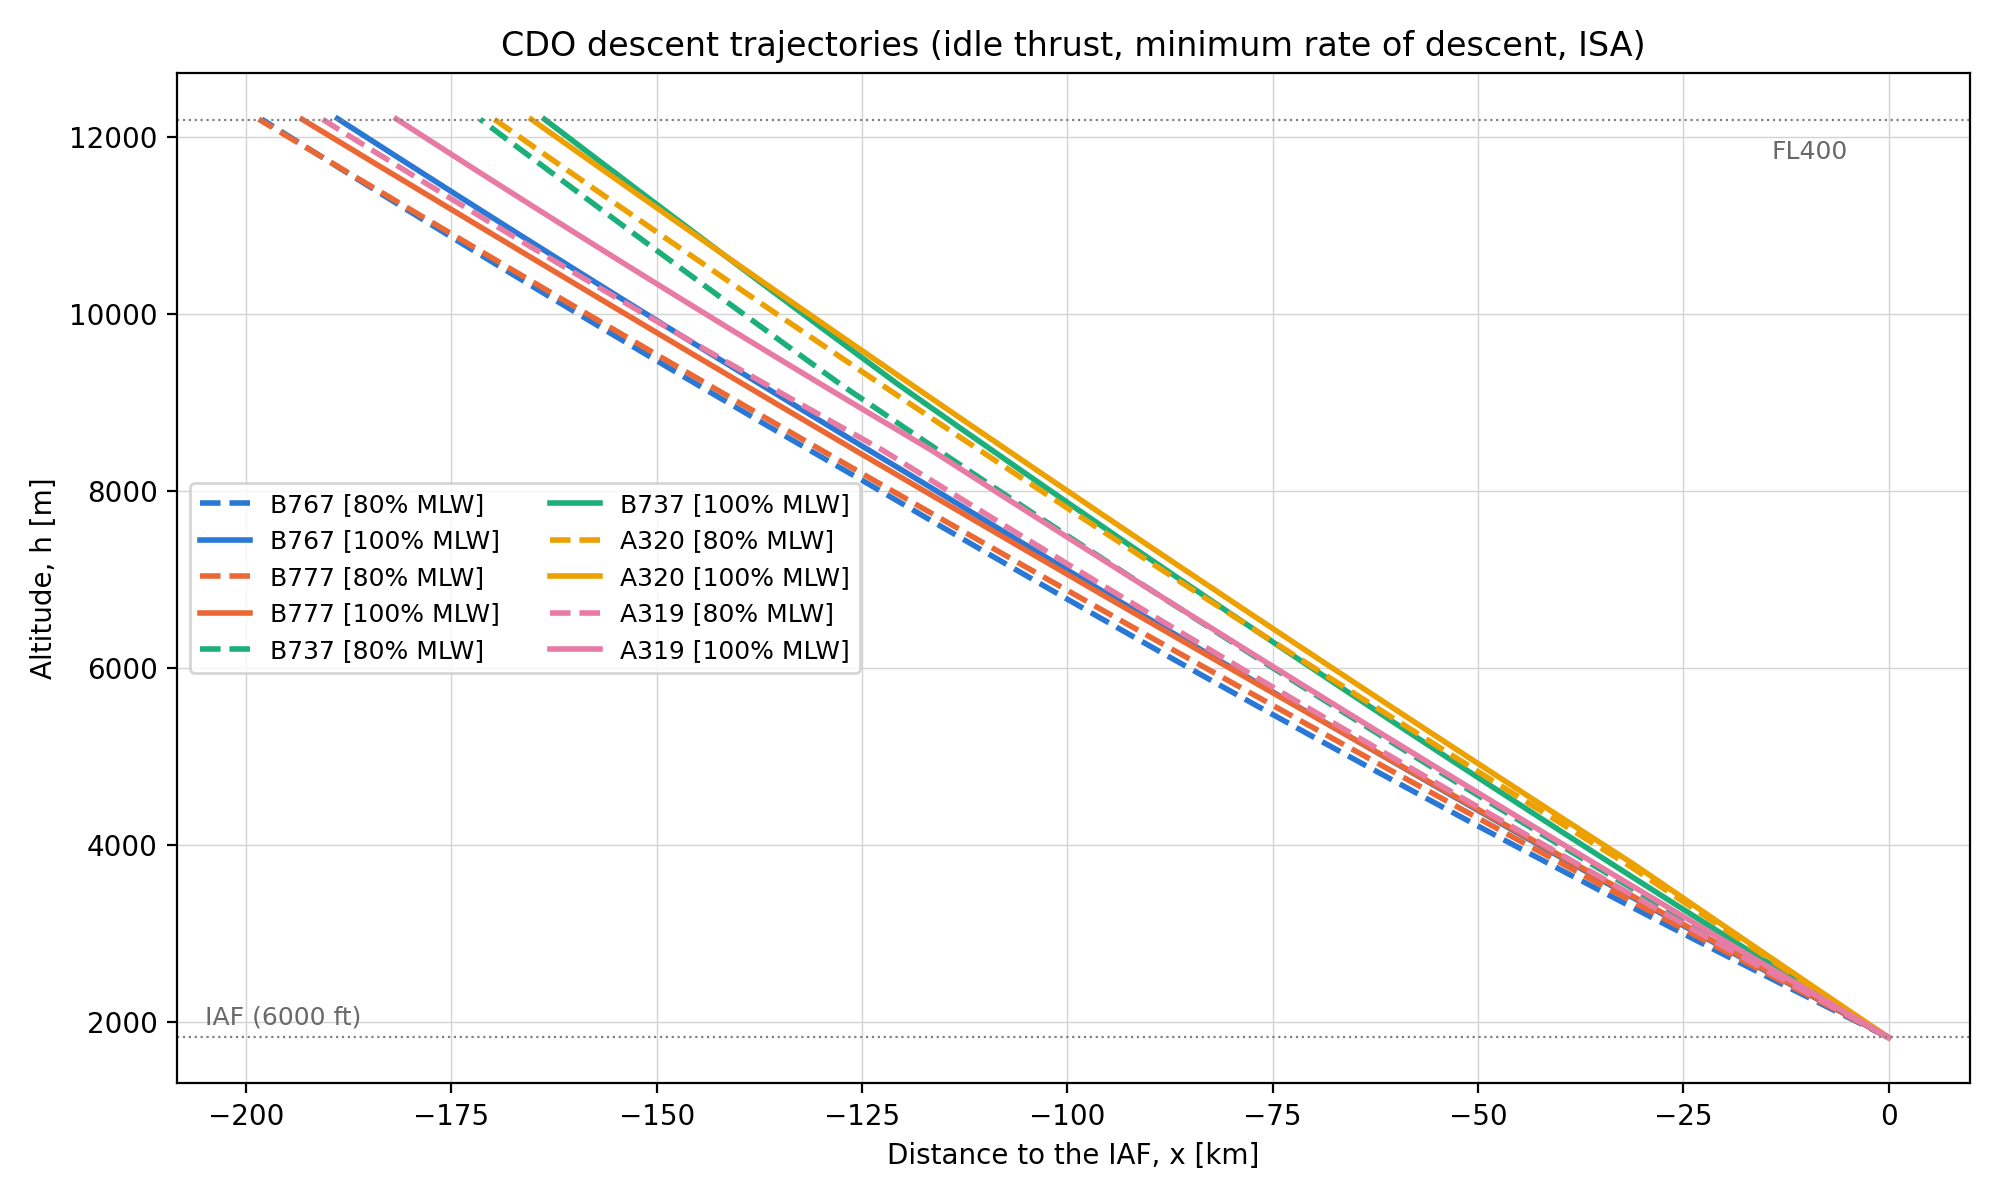
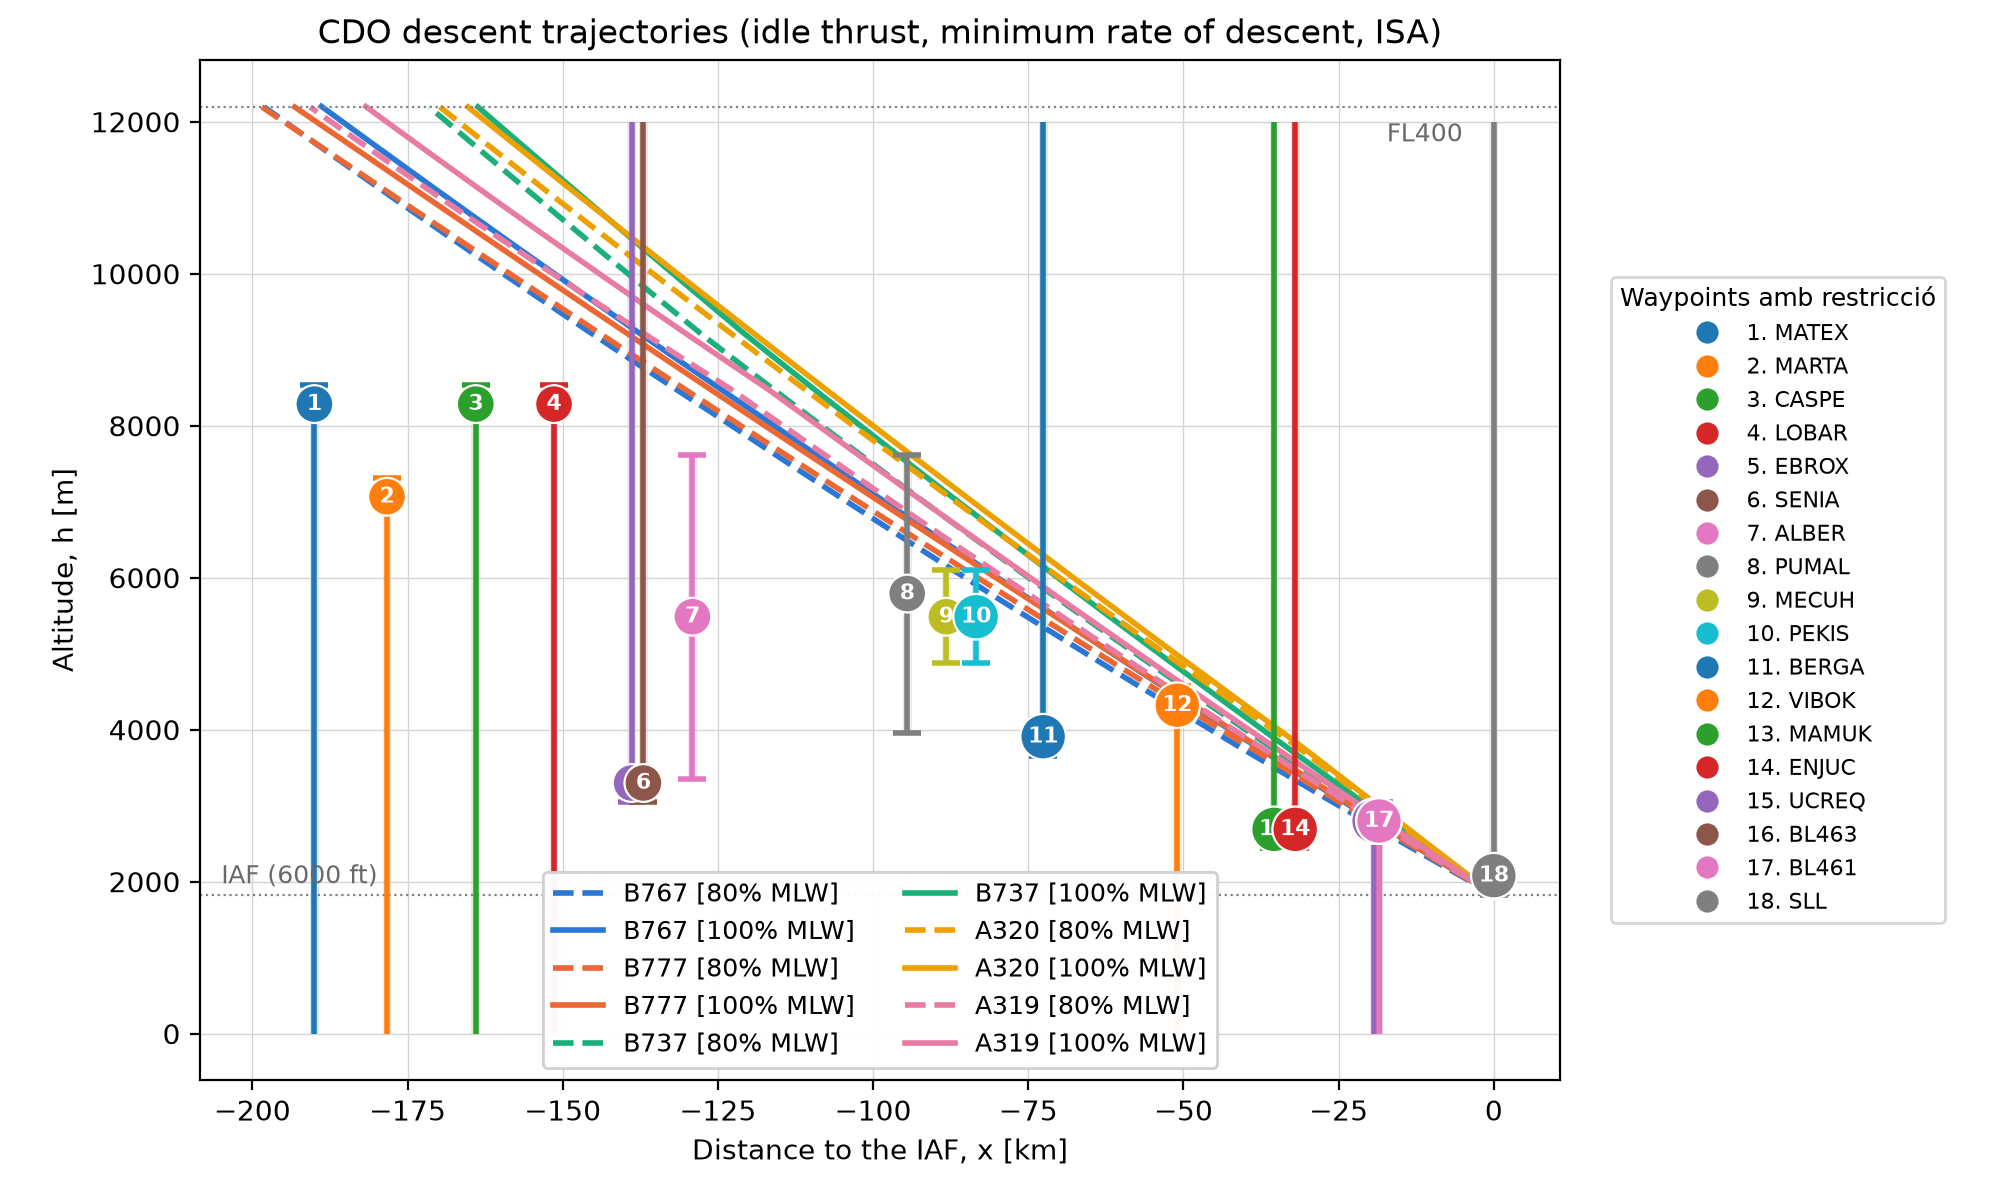
Plot Restrictions

diff --git a/restrictions.py b/restrictions.py
@@ -12,6 +12,7 @@ Data from the ENAIRE STAR charts (AIP, AD 2-LEBL STAR 3).
 Altitudes are given in ft on the chart and converted to m here.
 """
 
+import matplotlib as plt
 from aircraft import AIRCRAFT, FT_TO_M
 from sequencing import STARS, time_to_iaf
 
@@ -191,3 +192,161 @@ def check_all_aircraft(trajectories):
                     text = text + "  (cruise at FL400 for " + str(round(star_km - cdo_km, 1)) + " km)"
 
                 print("   ", name, pct, "% MLW:", text)
+
+
+
+
+
+def plot_all_restrictions(ax, restrictions_dict):
+    waypoints = {}
+
+    # Agrupar els waypoints i eliminar duplicats
+    for star, restrictions in restrictions_dict.items():
+        for r in restrictions:
+            if r.alt_min is None and r.alt_max is None:
+                continue
+
+            if r.waypoint not in waypoints:
+                waypoints[r.waypoint] = r
+
+    # Altitud màxima del gràfic, en metres
+    max_alt = 12000
+
+    # Ordenar els waypoints per distància
+    items = sorted(
+        waypoints.items(),
+        key=lambda item: item[1].distance_km,
+        reverse=True
+    )
+
+    colors = [
+        "tab:blue",
+        "tab:orange",
+        "tab:green",
+        "tab:red",
+        "tab:purple",
+        "tab:brown",
+        "tab:pink",
+        "tab:gray",
+        "tab:olive",
+        "tab:cyan"
+    ]
+
+    # Conservar la llegenda original dels avions
+    old_legend = ax.get_legend()
+
+    if old_legend is not None:
+        ax.add_artist(old_legend)
+
+    # Dibuixar les restriccions
+    for i, (waypoint, r) in enumerate(items):
+        x = -r.distance_km
+        color = colors[i % len(colors)]
+
+        # Límits d'altitud
+        alt_min = r.alt_min if r.alt_min is not None else 0
+        alt_max = r.alt_max if r.alt_max is not None else max_alt
+
+        # Franja vertical de color
+        ax.fill_between(
+            [x - 0.7, x + 0.7],
+            alt_min,
+            alt_max,
+            color=color,
+            alpha=0.16,
+            linewidth=0,
+            zorder=1
+        )
+
+        # Línia vertical de restricció
+        ax.vlines(
+            x,
+            alt_min,
+            alt_max,
+            color=color,
+            linewidth=2,
+            zorder=2
+        )
+
+        # Marca del límit mínim
+        if r.alt_min is not None:
+            ax.plot(
+                x,
+                alt_min,
+                "_",
+                color=color,
+                markersize=10,
+                markeredgewidth=2,
+                zorder=3
+            )
+
+        # Marca del límit màxim
+        if r.alt_max is not None:
+            ax.plot(
+                x,
+                alt_max,
+                "_",
+                color=color,
+                markersize=10,
+                markeredgewidth=2,
+                zorder=3
+            )
+
+        # Posició del número dins de la franja
+        if r.alt_min is not None and r.alt_max is not None:
+            y_marker = (alt_min + alt_max) / 2
+        elif r.alt_min is not None:
+            y_marker = min(alt_min + 250, max_alt)
+        else:
+            y_marker = max(alt_max - 250, 0)
+
+        # Número identificador del waypoint
+        ax.annotate(
+            str(i + 1),
+            xy=(x, y_marker),
+            ha="center",
+            va="center",
+            fontsize=8,
+            fontweight="bold",
+            color="white",
+            bbox=dict(
+                boxstyle="circle,pad=0.35",
+                facecolor=color,
+                edgecolor="white",
+                linewidth=0.8
+            ),
+            zorder=5
+        )
+
+    # Crear un eix independent per a la llegenda
+    fig = ax.figure
+
+    legend_ax = fig.add_axes([0.80, 0.0, 0.19, 1.0])
+    legend_ax.axis("off")
+
+    # Crear els elements de la llegenda
+    legend_items = []
+
+    for i, (waypoint, r) in enumerate(items):
+        color = colors[i % len(colors)]
+
+        handle, = legend_ax.plot(
+            [],
+            [],
+            marker="o",
+            linestyle="None",
+            color=color,
+            markersize=7,
+            label=f"{i + 1}. {waypoint}"
+        )
+
+        legend_items.append(handle)
+
+    # Llegenda dels waypoints a la dreta i centrada verticalment
+    legend_ax.legend(
+        handles=legend_items,
+        title="Waypoints amb restricció",
+        loc="center left",
+        fontsize=8,
+        title_fontsize=9
+    )

diff --git a/main.py b/main.py
@@ -7,12 +7,11 @@ Run with: python main.py
 All trajectories are stored in the dictionary "trajectories" so they can be
 reused in later tasks (arrival sequencing, STAR altitude constraints).
 """
-
 import matplotlib.pyplot as plt
 from aircraft import AIRCRAFT, FT_TO_M
 from simulator import getCDO, simulate_cdo
 from sequencing import STARS, scenario_1, scenario_2, arrival_order, print_scenario, time_to_string
-from restrictions import check_restrictions, check_all_aircraft
+from restrictions import check_restrictions, check_all_aircraft, plot_all_restrictions, RESTRICTIONS
 
 MLW_PERCENTS = [80, 100]
 
@@ -123,6 +122,13 @@ ax.set_title("CDO descent trajectories (idle thrust, minimum rate of descent, IS
 ax.grid(True, color="lightgrey", linewidth=0.5)
 ax.legend(fontsize=9, ncol=2)
 
-plt.tight_layout()
+plot_all_restrictions(ax, RESTRICTIONS)
+
+plt.subplots_adjust(
+    left=0.10,
+    right=0.78,
+    top=0.95,
+    bottom=0.10
+)
 plt.savefig("cdo_trajectories.png", dpi=200)   # for the paper
 plt.show()
